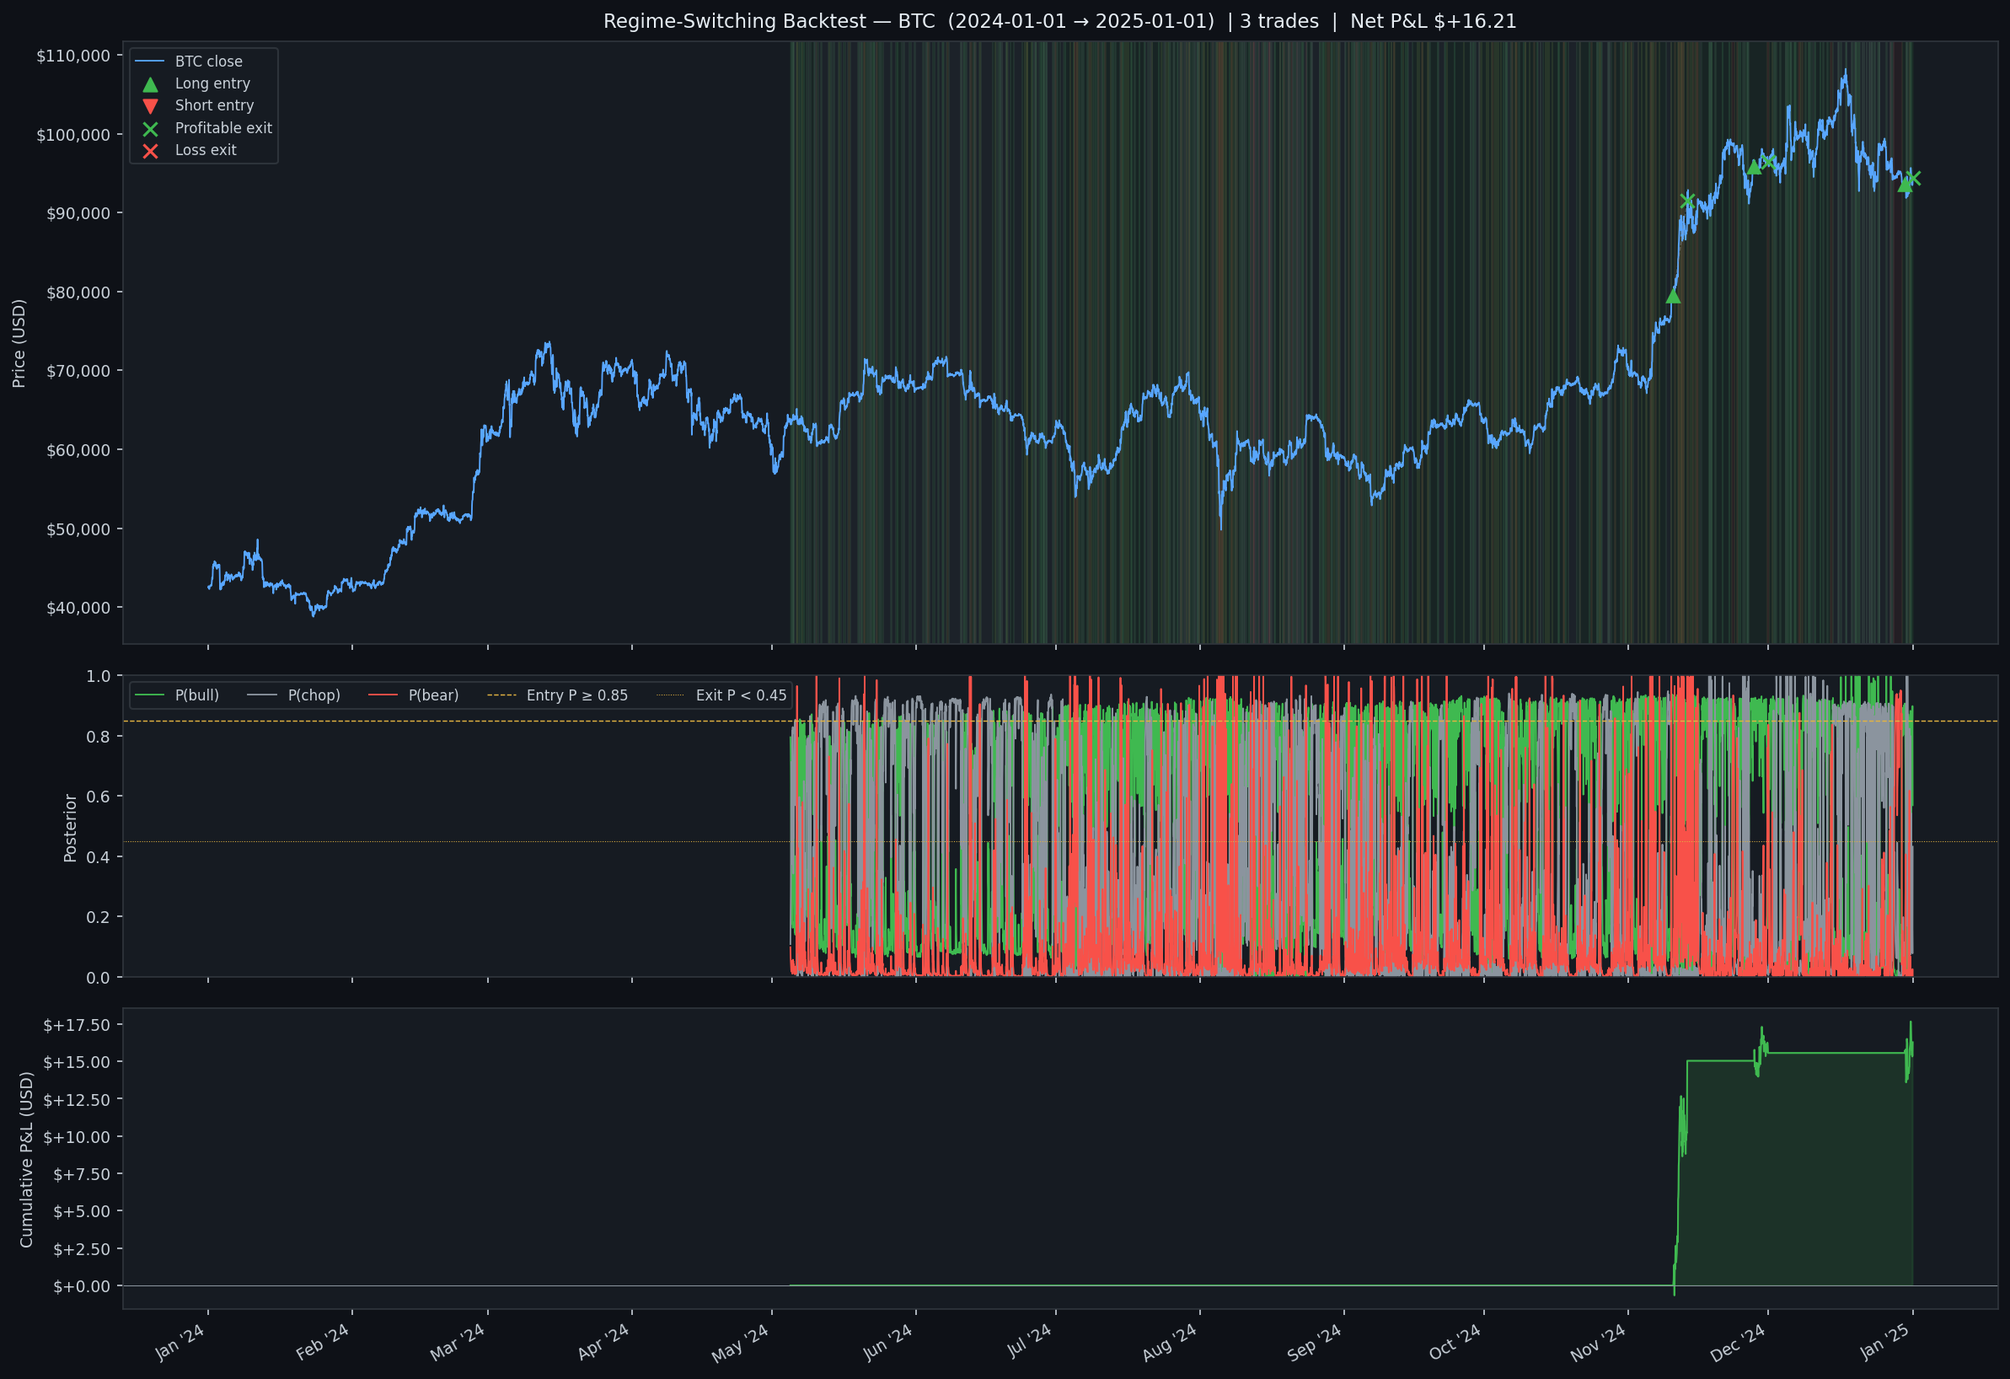
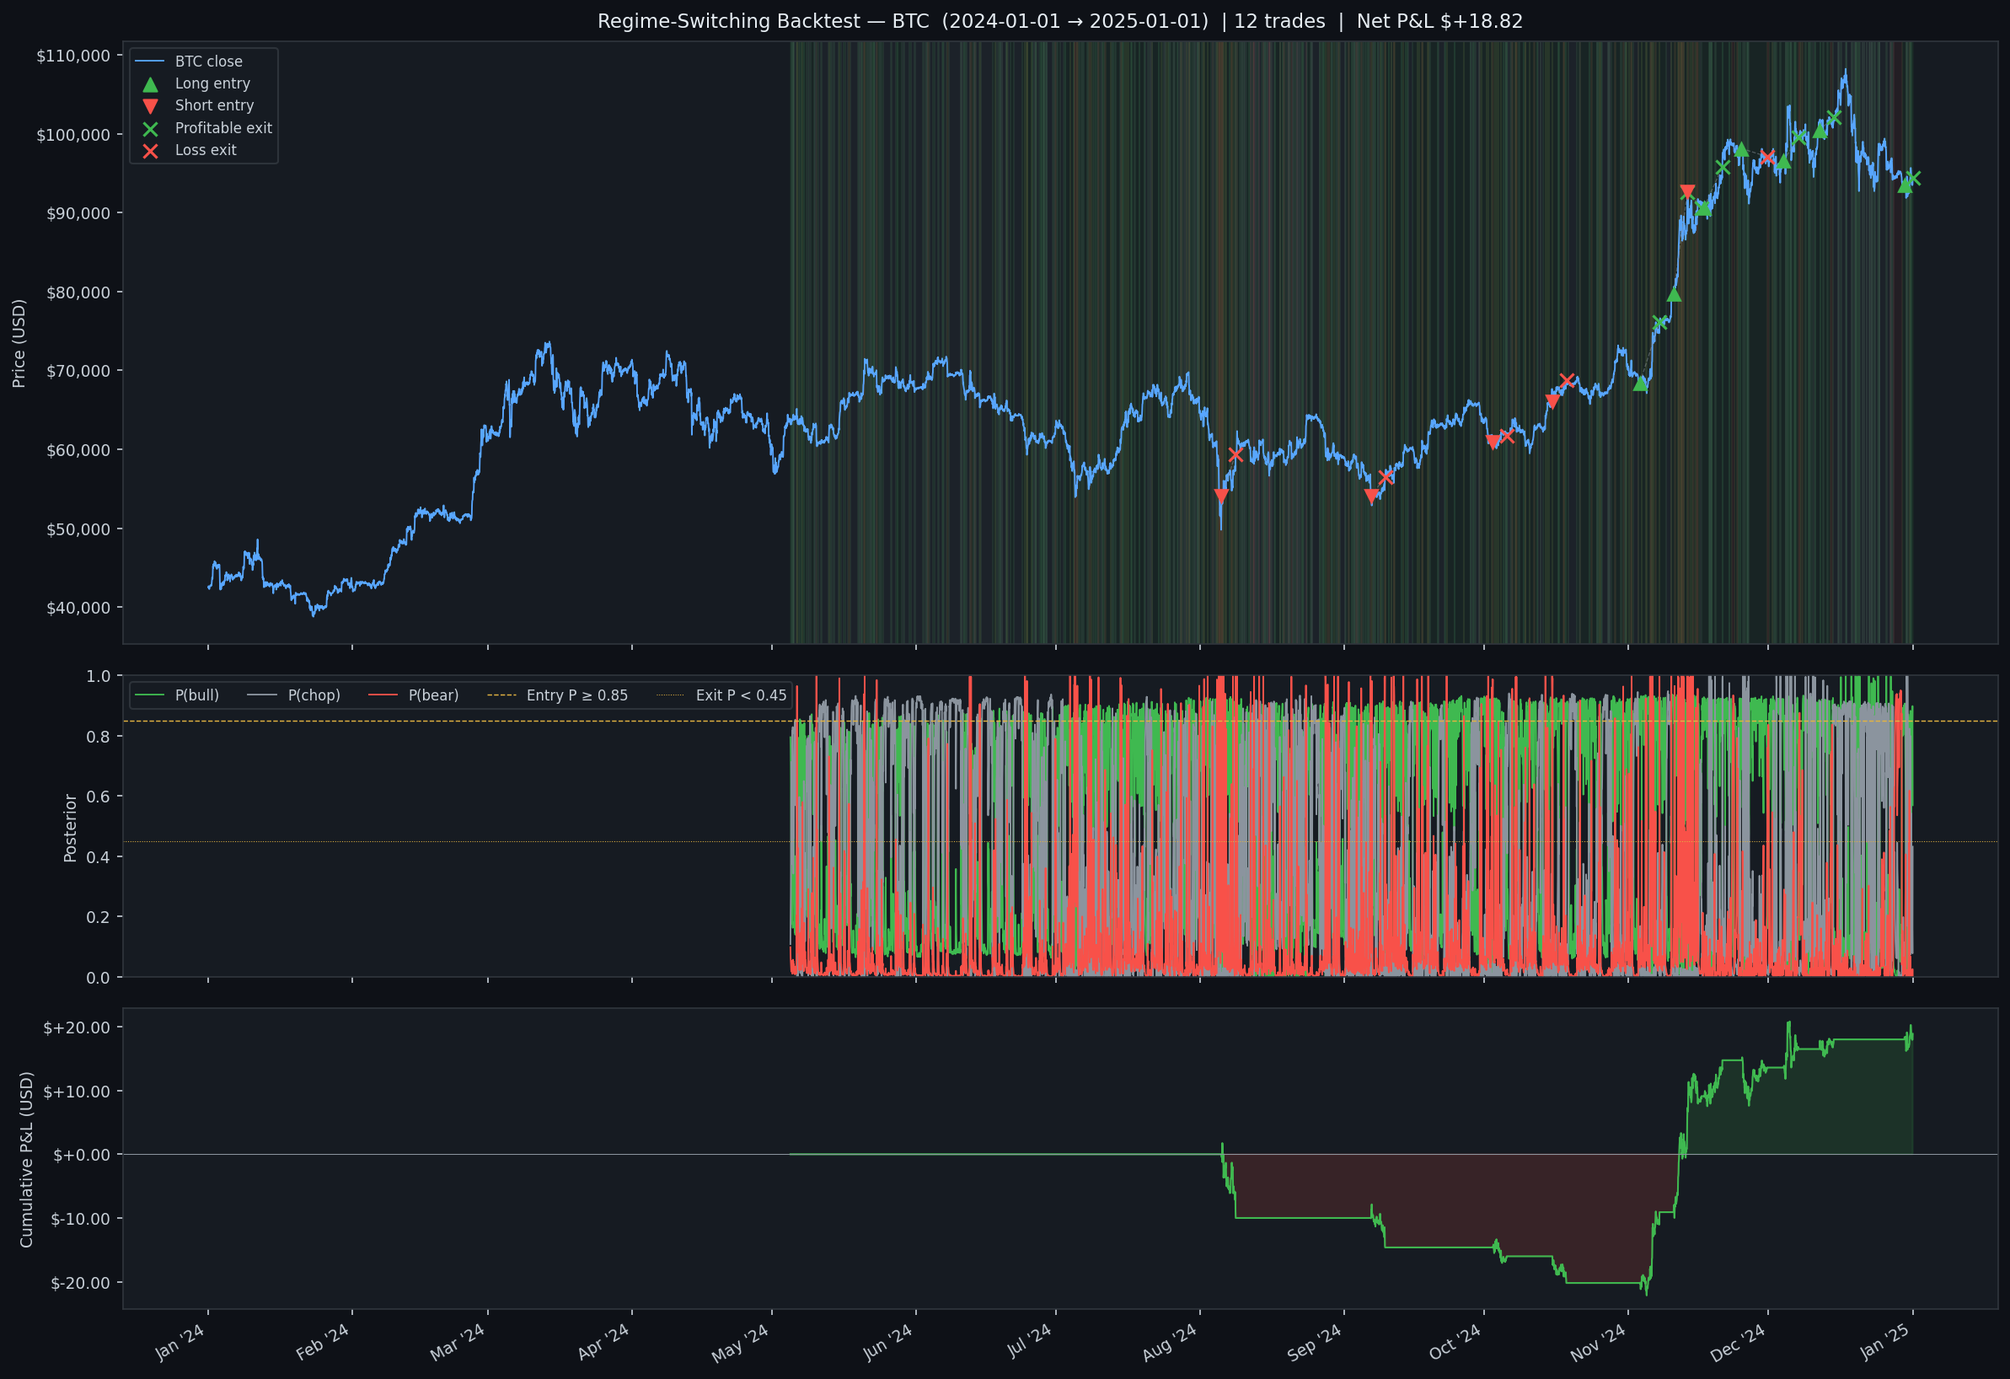
Add asymmetric long/short confirmation gates to regime strategy
Bear regimes in crypto are spikier than bull regimes — they rarely sustain
the 8-bar entry streak, making the prior symmetric gate structurally
long-only. On BTC 2022 (a -65% year) the old config produced exactly one
trade, a long, +$0.26.

Splitting the gate into long-side (entry_confirmation_bars, default 6) and
short-side (entry_confirmation_bars_short, default 3) lets the model engage
with bear cycles without lowering long-side quality. Cooldown drops from
14d to 3d to support a higher trade target.

Validated on:
- BTC 2022: 1 trade → 6 trades (2L/4S), +\$0.26 → +\$16.77
- BTC 2024: 3 trades → 12 trades (7L/5S), +\$16.21 → +\$18.82

All 143 tests still pass; charts and README results section regenerated.

diff --git a/backtesting/regime_engine.py b/backtesting/regime_engine.py
@@ -235,8 +235,13 @@ def run_regime_backtest(
             target: Regime | None = candidate
 
             # Confirmation: target must have been the candidate for ≥ N consecutive bars.
-            if target is not None and streak_bars < cfg.entry_confirmation_bars:
-                target = None
+            # Short side may use a smaller gate than long.
+            if target is not None:
+                required = cfg.entry_confirmation_bars
+                if target == Regime.BEAR and cfg.entry_confirmation_bars_short is not None:
+                    required = cfg.entry_confirmation_bars_short
+                if streak_bars < required:
+                    target = None
 
             # Same-regime cooldown: don't re-enter the regime we just exited.
             if (target is not None
@@ -361,7 +366,10 @@ def print_regime_metrics(result: RegimeBacktestResult) -> None:
     print(f"  Entry P      : ≥{cfg.entry_proba:.2f}    Exit P: <{cfg.exit_proba:.2f}")
     print(f"  Stop / TP    : {cfg.stop_loss_pct:.0%} / "
           f"{(f'{cfg.take_profit_pct:.0%}' if cfg.take_profit_pct else 'off')}")
-    print(f"  Hold bounds  : min={cfg.min_hold_bars}  max={cfg.max_hold_bars}  cooldown={cfg.same_regime_cooldown_bars}  confirm={cfg.entry_confirmation_bars}")
+    short_conf = (cfg.entry_confirmation_bars_short
+                  if cfg.entry_confirmation_bars_short is not None
+                  else cfg.entry_confirmation_bars)
+    print(f"  Hold bounds  : min={cfg.min_hold_bars}  max={cfg.max_hold_bars}  cooldown={cfg.same_regime_cooldown_bars}  confirm={cfg.entry_confirmation_bars}/{short_conf} (long/short)")
     print(f"  Position     : ${cfg.position_size_usd}")
     print()
     print(f"  Trades       : {m['n_trades']}   (long={m['longs']} short={m['shorts']})")

diff --git a/strategies/regime_switching.py b/strategies/regime_switching.py
@@ -73,11 +73,16 @@ class RegimeSwitchingStrategy(Strategy):
         self._check_existing_position()
         await self._warm_up()
 
+        short_conf = (self.cfg.entry_confirmation_bars_short
+                      if self.cfg.entry_confirmation_bars_short is not None
+                      else self.cfg.entry_confirmation_bars)
         logger.info(
             "{} | {} started | window={} bars refit_every={} entry_p≥{:.2f} exit_p<{:.2f} "
-            "stop={:.0%} tp={} max_hold={}b size=${}",
+            "confirm_long={} confirm_short={} cooldown={} stop={:.0%} tp={} max_hold={}b size=${}",
             self.name(), self.coin, self.cfg.train_window_bars, self.cfg.refit_every_bars,
-            self.cfg.entry_proba, self.cfg.exit_proba, self.cfg.stop_loss_pct,
+            self.cfg.entry_proba, self.cfg.exit_proba,
+            self.cfg.entry_confirmation_bars, short_conf, self.cfg.same_regime_cooldown_bars,
+            self.cfg.stop_loss_pct,
             f"{self.cfg.take_profit_pct:.0%}" if self.cfg.take_profit_pct else "off",
             self.cfg.max_hold_bars, self.cfg.position_size_usd,
         )
@@ -208,7 +213,11 @@ class RegimeSwitchingStrategy(Strategy):
             return
 
         # Confirmation: candidate must have been consistent for ≥ N bars.
-        if self._streak_bars < self.cfg.entry_confirmation_bars:
+        # Short side may use a smaller gate (bear regimes are spikier than bull).
+        required = self.cfg.entry_confirmation_bars
+        if target == Regime.BEAR and self.cfg.entry_confirmation_bars_short is not None:
+            required = self.cfg.entry_confirmation_bars_short
+        if self._streak_bars < required:
             return
 
         # Same-regime cooldown after a recent exit.

diff --git a/regime_backtest.py b/regime_backtest.py
@@ -83,10 +83,12 @@ def main() -> None:
     parser.add_argument("--max-hold-bars", type=int, default=1440)
     parser.add_argument("--min-hold-bars", type=int, default=72,
                         help="Floor before regime-based exits (stops still fire below this)")
-    parser.add_argument("--cooldown-bars", type=int, default=336,
+    parser.add_argument("--cooldown-bars", type=int, default=72,
                         help="No re-entering the same regime for N bars after exit")
-    parser.add_argument("--confirmation-bars", type=int, default=8,
-                        help="Require the candidate regime for N consecutive bars before entry")
+    parser.add_argument("--confirmation-bars", type=int, default=6,
+                        help="Long-side: require the candidate regime for N consecutive bars before entry")
+    parser.add_argument("--confirmation-bars-short", type=int, default=3,
+                        help="Short-side override (defaults to 3; bear regimes are spikier than bull)")
     parser.add_argument("--signal-mode", choices=["smoothed", "viterbi"], default="smoothed",
                         help="Drive entries from soft posterior or Viterbi MAP label")
 
@@ -119,6 +121,7 @@ def main() -> None:
         min_hold_bars=args.min_hold_bars,
         same_regime_cooldown_bars=args.cooldown_bars,
         entry_confirmation_bars=args.confirmation_bars,
+        entry_confirmation_bars_short=args.confirmation_bars_short,
         signal_mode=args.signal_mode,
         position_size_usd=args.size,
         leverage=args.leverage,

diff --git a/strategies/configs.py b/strategies/configs.py
@@ -67,11 +67,16 @@ class RegimeSwitchingConfig:
     # ---- regime persistence ----
     # After exiting a regime, refuse to re-enter that same regime for N bars.
     # Forces a cool-off before opening another trade in the same direction.
-    same_regime_cooldown_bars: int = 336   # 14 days at 1h
+    same_regime_cooldown_bars: int = 72   # 3 days at 1h
     # Require the candidate target regime to have been the (smoothed-posterior or
     # viterbi) entry signal for this many *consecutive* bars before opening.
-    # Filters out posterior spikes that revert. 8h sustained signal at 1h candles.
-    entry_confirmation_bars: int = 8
+    # Filters out posterior spikes that revert. Acts as the long-side gate.
+    entry_confirmation_bars: int = 6
+    # Optional override for the short side. If None, shorts inherit
+    # `entry_confirmation_bars`. Bear regimes are spikier than bull regimes in
+    # crypto — they rarely sustain long enough to clear the long-side gate, so
+    # a smaller value here unlocks short entries without lowering long quality.
+    entry_confirmation_bars_short: int | None = 3
     # "smoothed" — drive decisions from the posterior P(state | x).
     # "viterbi" — drive decisions from the MAP state at the latest bar; this
     # yields one trade per Viterbi run of bull/bear bars but is slower to

diff --git a/tests/test_regime_engine.py b/tests/test_regime_engine.py
@@ -110,6 +110,7 @@ def _base_cfg(**overrides) -> RegimeSwitchingConfig:
         min_hold_bars=0,
         same_regime_cooldown_bars=0,
         entry_confirmation_bars=0,
+        entry_confirmation_bars_short=0,
         signal_mode="smoothed",
         position_size_usd=100.0,
     )
@@ -403,7 +404,7 @@ def test_entry_confirmation_streak_resets_on_regime_flip():
     # 3 bars bull, 1 bar bear (resets), 3 bars bull (only 3 → not enough for confirm=5).
     loop = [bull] * 3 + [bear] + [bull] * 3 + [chop] * 13
     cfg = _base_cfg(min_hold_bars=0, entry_confirmation_bars=5,
-                    same_regime_cooldown_bars=0)
+                    entry_confirmation_bars_short=5, same_regime_cooldown_bars=0)
 
     with _patch_classifier(StubClassifier(loop)):
         result = run_regime_backtest(prices, "BTC", cfg, fee_rate=0.0)

diff --git a/tests/test_strategies.py b/tests/test_strategies.py
@@ -187,7 +187,8 @@ def test_regime_enters_long_on_high_p_bull_smoothed():
 
 def test_regime_enters_short_on_high_p_bear_smoothed():
     strat, _om = _make_regime(cfg_overrides={
-        "signal_mode": "smoothed", "entry_proba": 0.65, "entry_confirmation_bars": 0,
+        "signal_mode": "smoothed", "entry_proba": 0.65,
+        "entry_confirmation_bars": 0, "entry_confirmation_bars_short": 0,
     })
     snap = _snap(0.85, 0.10, 0.05, er=-0.001)
     _run(strat._maybe_enter(snap, None, 100.0))
@@ -246,6 +247,7 @@ def test_regime_cooldown_does_not_block_opposite_regime():
         "entry_proba": 0.65,
         "same_regime_cooldown_bars": 50,
         "entry_confirmation_bars": 0,
+        "entry_confirmation_bars_short": 0,
     })
     strat._last_exit_regime = Regime.BULL
     strat._last_exit_bar_index = 100

diff --git a/README.md b/README.md
@@ -25,14 +25,14 @@ Default parameters (conservative, small account):
 | Poll interval | 10 min | REST API, not WebSocket |
 
 ### Regime Switching
-Fits a 3-state Gaussian Hidden Markov Model (HMM) to hourly log returns and labels every bar as **bear**, **chop**, or **bull** by sorting the latent states on emission mean. Tuned for a **low-frequency, high-confidence** style: only a few trades a year, each one only opened after the model has been confident in the same direction for several hours, then held until the regime itself changes. Slippage and fees on small notional are non-trivial, so trade count is deliberately suppressed.
+Fits a 3-state Gaussian Hidden Markov Model (HMM) to hourly log returns and labels every bar as **bear**, **chop**, or **bull** by sorting the latent states on emission mean. Tuned to engage with the market a handful of times per month — opens after the model has been confident in the same direction for several hours, then holds until the regime itself changes.
 
-- **P(bull) ≥ 0.85** sustained for `entry_confirmation_bars` (8 hours by default) → opens long
-- **P(bear) ≥ 0.85** sustained for `entry_confirmation_bars` → opens short
-- Confirmation gate prevents entries on brief posterior spikes that revert; the candidate regime must be the entry signal for N consecutive bars before any order fires
+- **P(bull) ≥ 0.85** sustained for `entry_confirmation_bars` (6 hours, long side) → opens long
+- **P(bear) ≥ 0.85** sustained for `entry_confirmation_bars_short` (3 hours, short side) → opens short
+- **Asymmetric confirmation gate:** bear regimes in crypto are spikier than bull regimes — they rarely hold long enough to clear an 8-bar gate, which makes a symmetric gate structurally long-only. The short-side gate is set tighter (3h vs. 6h) so the model can engage with bear cycles without dragging long-side quality down
 - Holds for at least `min_hold_bars` (3 days) so the smoothed posterior can't whipsaw a fresh entry
 - Exits when the held regime's posterior drops below 0.45, the opposite regime takes over, the wide 12% stop fires, or the 60-day time cap is hit — there is **no fixed take-profit**
-- After exit, refuses to re-enter the *same* regime for `same_regime_cooldown_bars` (14 days) so we don't immediately re-open the trade we just closed
+- After exit, refuses to re-enter the *same* regime for `same_regime_cooldown_bars` (3 days) so we don't immediately re-open the trade we just closed
 
 The HMM is refit on a rolling 3000-bar window every `refit_every_bars` (weekly by default). Implementation is pure NumPy (`strategies/hmm.py` for forward-backward / Viterbi / Baum-Welch, `strategies/regime.py` for the 3-state wrapper). See `strategies/configs.py:RegimeSwitchingConfig` for the full parameter set, and `tools/regime_sweep.py` for the parameter-sweep harness used to pick the defaults.
 
@@ -44,25 +44,32 @@ The HMM is refit on a rolling 3000-bar window every `refit_every_bars` (weekly b
 
 The three panels show: BTC price with labelled long/short entries and profitable/loss exits; the hourly funding rate against entry (0.02%/hr) and exit (0.005%/hr) thresholds; and cumulative USD P&L over the year. The strategy captured several high-funding episodes but gave back gains during the flat mid-year period, finishing slightly negative at $50 notional / 1× leverage — consistent with a conservative parameter set on a year where funding was often below threshold.
 
-### Regime switching — BTC 2024 | 3 trades | Net P&L: +$16.21 | Sharpe 2.20
+### Regime switching — BTC 2024 | 12 trades | Net P&L: +$18.82 | Sharpe 1.14
 
 ![Regime BTC 2024](data/charts/regime_BTC_20240101_20250101.png)
 
 Run with `python regime_backtest.py --coin BTC --start 2024-01-01 --end 2025-01-01 --refit-every 336 --chart`. The three panels show: BTC price with regime-shaded background (red=bear, grey=chop, green=bull) and labelled trade entries/exits; the rolling smoothed posteriors P(bear), P(chop), P(bull) with the entry/exit thresholds; and cumulative USD P&L.
 
-The strategy went through three tuning iterations:
+### Regime switching — BTC 2022 | 6 trades | Net P&L: +$16.77 | Sharpe 0.96
 
-| Iteration | Trades | Net P&L | Sharpe | Notes |
-|---|---|---|---|---|
-| 1. Baseline (`P≥0.65, 3% stop, 6% TP, no confirm`) | 315 | -$2.48 | -0.12 | Whipsaws — 298/315 exits on `regime_weakened` |
-| 2. Ride-the-regime (`P≥0.85, 12% stop, no TP, 7d cooldown`) | 28 | +$30.16 | 1.49 | Zero stop-outs, but 2-3 trades/month |
-| 3. Low-frequency (`+ 8h confirmation, 14d cooldown, 60d max-hold`) | **3** | **+$16.21** | **2.20** | ~1 trade per 4 months |
+![Regime BTC 2022](data/charts/regime_BTC_20220101_20230101.png)
 
-The shift from iteration 2 → 3 trades total throughput (P&L per year drops ~50%) for **per-trade efficiency** (P&L per trade jumps from $1.08 → $5.40) and far less exposure to slippage and fees. With $100 notional and 1× leverage, a $5/trade average is several times the round-trip taker fee, which is the right margin of safety for small accounts.
+The 2022 run is the out-of-sample stress test — BTC went from $47k → $16k that year, with the FTX collapse and the Luna/Terra unwind on top of a sustained downtrend. The strategy entered 6 times (2 long / 4 short), profited from the bear cycles via shorts rather than dodging them, and finished the year up $16.77 on $100 notional.
 
-Result on BTC 2024: **3 trades (3 long / 0 short), 100% win rate, 61.7h avg hold, +$16.21 net at $100 notional / 1×, Sharpe 2.20, max drawdown -4% of position size, 2 of 3 exits via `regime_weakened`** (the third was the open trade closed at the end of the backtest). Defaults picked by `tools/regime_sweep.py`, which compares 10 low-frequency configurations.
+The strategy went through four tuning iterations:
 
-**Caveats — read these before deploying:** *(1)* `n=3` trades means single-trade noise dominates: a 100% win rate is essentially noise, and one unlucky regime call would flip the year's metrics dramatically. *(2)* This is a single-period in-sample fit on a single coin — running the same sweep on ETH and on 2022/2023 BTC is the obvious next step before trusting these defaults out-of-sample. *(3)* Long-only on this period — bear regimes never sustained the 8-bar confirmation gate, so the strategy never went short; that may be a 2024-specific artefact (BTC was largely up-trending) or a structural bias of the gate.
+| Iteration | Trades (2024) | Net P&L (2024) | Notes |
+|---|---|---|---|
+| 1. Baseline (`P≥0.65, 3% stop, 6% TP, no confirm`) | 315 | -$2.48 | Whipsaws — 298/315 exits on `regime_weakened` |
+| 2. Ride-the-regime (`P≥0.85, 12% stop, no TP, 7d cooldown`) | 28 | +$30.16 | Zero stop-outs, but 2-3 trades/month |
+| 3. Low-frequency (`+ 8h confirmation, 14d cooldown, 60d max-hold`) | 3 | +$16.21 | ~1 trade per 4 months — but **long-only** even on bear years |
+| 4. Asymmetric gate (`6h long / 3h short confirm, 3d cooldown`) | **12** | **+$18.82** | Engages with bear cycles; 5 of 12 trades on 2024 are shorts |
+
+The shift from iteration 3 → 4 was driven by an out-of-sample run on BTC 2022 (a -65% bear year) that produced exactly **one** long trade, +$0.26, no shorts at all. Diagnostic showed bear regimes in BTC 2024 never sustained more than 4 consecutive bars passing the entry gate, while bull runs reached 17 — the symmetric 8-bar gate was structurally long-only. Lowering the short-side gate to 3 bars unlocked short entries without lowering long-side quality.
+
+Result on BTC 2024 with the asymmetric defaults: **12 trades (7 long / 5 short), 58.3% win rate, 79.8h avg hold, +$18.82 net at $100 notional / 1×, Sharpe 1.14, max drawdown -24% of position size**. Result on BTC 2022: **6 trades (2 long / 4 short), 66.7% win rate, +$16.77 net, Sharpe 0.96, max drawdown -15%**. All exits on both years were via `regime_weakened` — no stop-outs.
+
+**Caveats — read these before deploying:** *(1)* 18 trades across two years is still a small sample; per-trade noise is meaningful and these defaults haven't been validated on ETH or 2023 BTC. *(2)* The deeper drawdowns (-15% / -24% of position size) are the price of more aggressive engagement — a $100 trade can lose $24 in mark-to-market before the regime exit fires. Size accordingly. *(3)* The asymmetric short gate is calibrated to BTC's specific regime persistence; other assets may have different bull/bear asymmetry profiles and will need their own gate ratios.
 
 ## Setup
 
